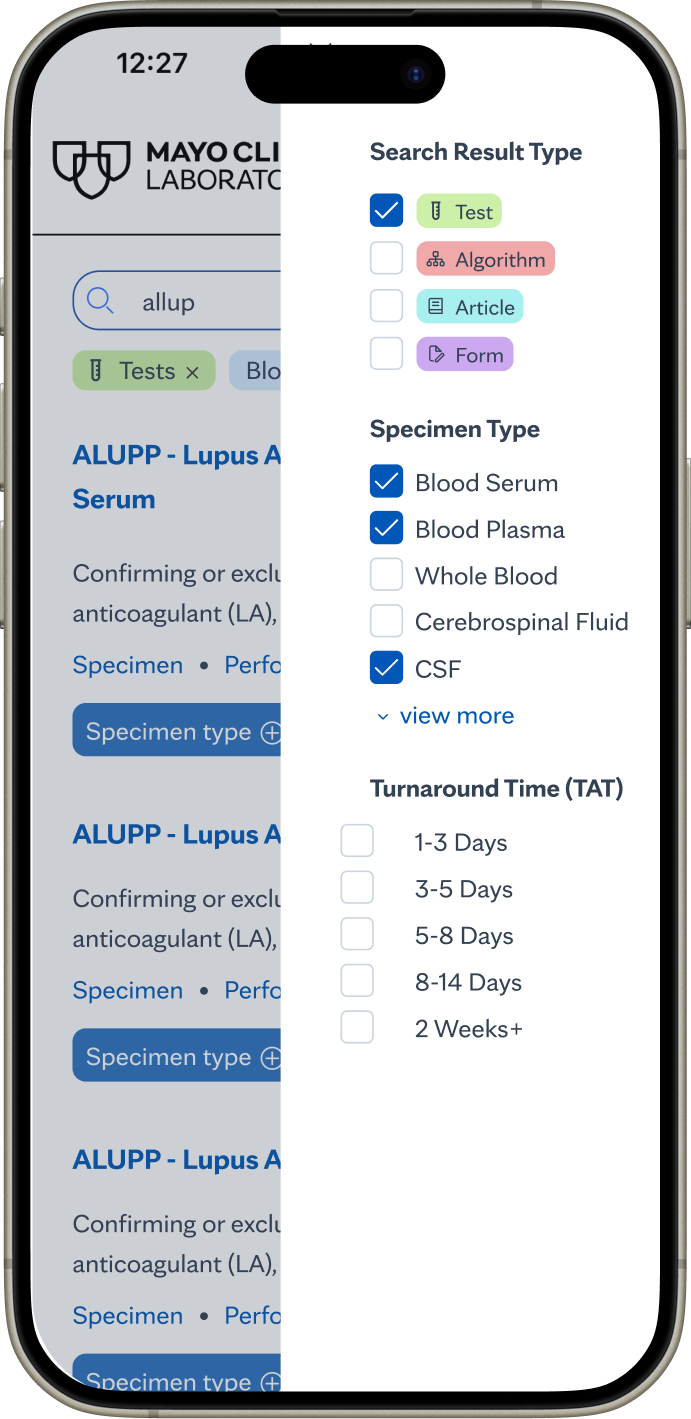
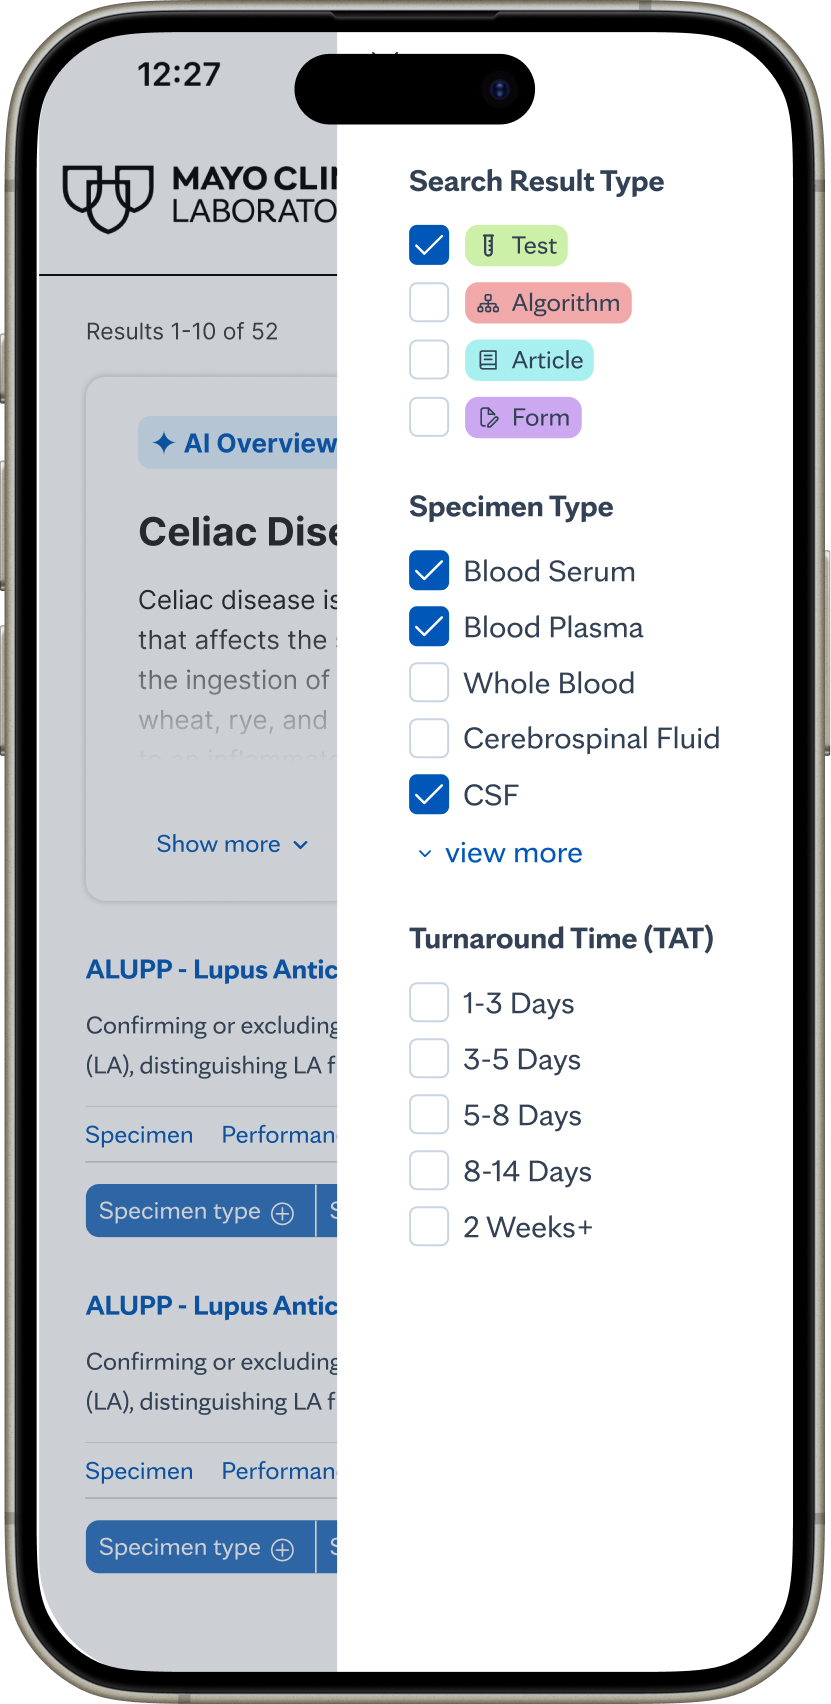
updated mobile section and added spans

diff --git a/src/pages/Search.jsx b/src/pages/Search.jsx
@@ -87,7 +87,7 @@ export default function Search(){
                 <p className='mb-16'>We knew that categorization and filtering of the results would be helpful. But there there were two problems.</p>
                 <ol className='list-decimal pl-4'>
                     <li className='font-bold'>The ability to filter search results would require hundreds of manhours by subject matter experts labelling results with metadata we didn’t have.</li>
-                    <li className='font-bold mb-16'>Marketing wanted the ability to surface results that could lead to new business but due to low traffic might get buried in an organic, one-column approach.</li>
+                    <li className='font-bold mb-16'>Marketing wanted the ability to surface results that could generate sales but would get buried organically in a one-column approach due to low traffic.</li>
                 </ol>
                 <p>So we went with a 2-column approach where the second column was specifically for web content.</p>
                 <img src={twoColumn} className='shadow-lg mb-8'/>
@@ -177,11 +177,6 @@ export default function Search(){
                 >
                     I LOVE LOVE LOVE LOVE LOVE LOVE LOVE (and a MILLION more LOVES) that when I search the test catalog for an Obsolete test now, I now see a link that says the test is obsolete, and links to the test update PDF.  This is AMAZING and really helps streamline searching for information.
                 </UserQuote>
-                <p className='mt-16 mb-4'>As a B2B company whose users are 99% of the time working on desktops, Mayo had a mobile version of search that was very janky. I also created a responsive mobile version to improve our user’s experience the 1% of times they used search on the go. </p>
-                <div className='grid grid-cols-2 gap-12 max-w-[600px] mx-auto'>
-                    <img src={mobileReg} />
-                    <img src={mobileDrawer} />
-                </div>
             </section>
             <section>
                 <h2>AI Search</h2>
@@ -210,14 +205,20 @@ export default function Search(){
                 <img src={calloutAiCollapsed} className='mb-16'/>
                 <p className='mb-6'>When expanded, the AI Overview panel would show a <span>formatted response</span> trained on Mayo's own data. It could help users <span>navigate</span>, <span>decide</span> what test best matches a disease state, and <span>answer</span> simple questions like "what's the minimum volume of this specimen I can ship?"</p>
                 <img src={calloutAiExpanded} className='mb-16'/>
-                <p className='mb-6'>Critically, the generated answer would link to other parts of Mayo Clinic where it was pulling this information from.</p>
+                <p className='mb-6'>Critically, the generated answer would provide <span>citations</span> to the parts of Mayo Clinic where it was pulling this information from.</p>
                 <img src={calloutAiCitations} className='mb-16'/>
-                <p className='mb-6'>And for users who would rather stick to organic results, they had the option to minimize or toggle off the panel.</p>
+                <p className='mb-6'>And for users who would rather stick to organic results, they had the option to minimize or <span>toggle off</span> the panel.</p>
                 <img src={calloutHideAi} className='mb-16'/>
+                <h3>Mobile</h3>
+                <p className='mb-8'>As a B2B company whose users are 99% of the time working on desktops, Mayo had a mobile version of the website and search was far from optimized. So I created a mobile version that would keep the brand consistent for the 1%. </p>
+                <div className='grid grid-cols-2 gap-12 max-w-[600px] mx-auto'>
+                    <img src={mobileReg} />
+                    <img src={mobileDrawer} className='mb-16'/>
+                </div>
                 <p className='mb-16'>At the time of this writing, these designs have yet to be tested with users. But since many aspects of this feature came from previous user research, it is likely that this feature would have broad user appeal.</p>
             </section>
-            <section className='w-auto max-w-[2000px]'>
-                <h2 className='max-w-[1000px] mx-auto'>Before and After</h2>
+            <section className='w-auto max-w-[2000px] bg-blue-50 pt-8 pb-12 mb-0 rounded-lg'>
+                <h2>Before and After</h2>
                 <h3>Search page</h3>
                 <div className='grid grid-rows-[1fr_auto_1fr] md:grid-cols-[1fr_auto_1fr] md:grid-rows-1 gap-4 items-center mb-16'>
                     <img src={homePageWithSearch} className='shadow-lg'/>
